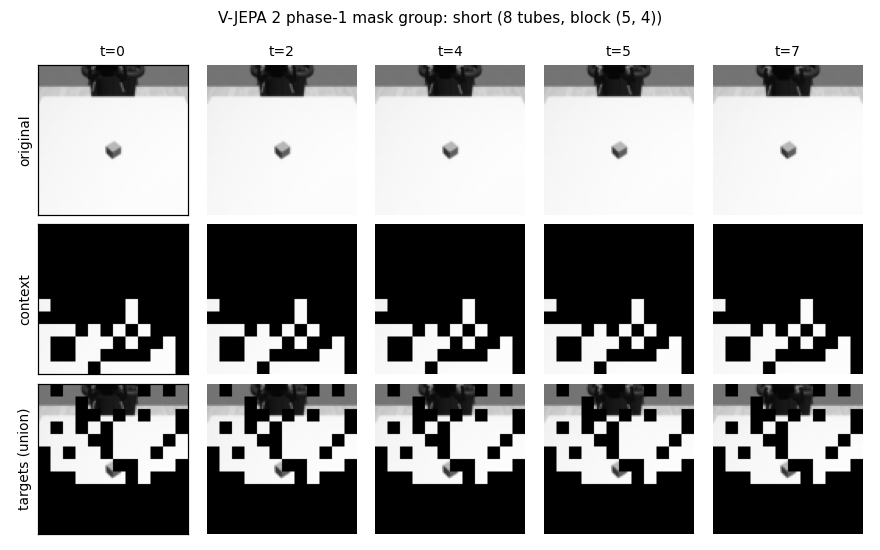
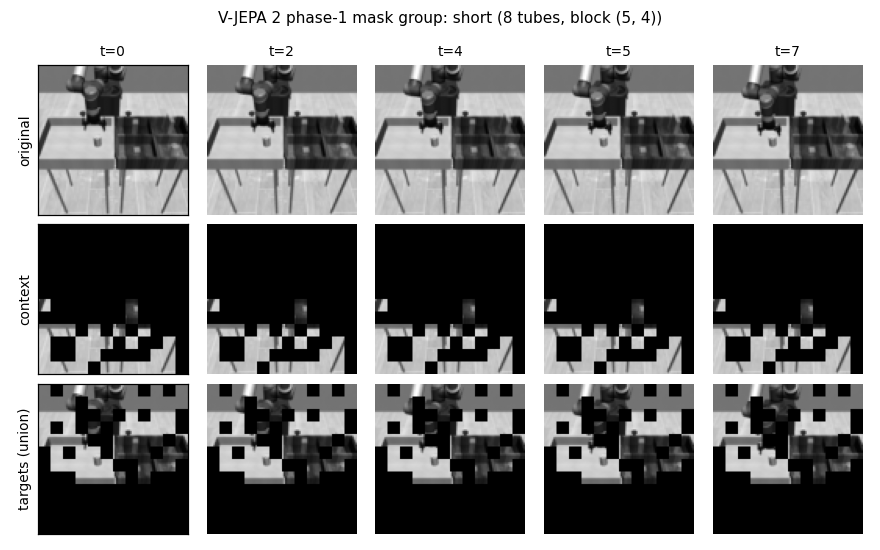
add djepa with contrastive distill

diff --git a/djepa_extras.py b/djepa_extras.py
@@ -2,11 +2,14 @@
 
 import os
 import random
+import numpy as np 
 
 import matplotlib.pyplot as plt
 import torch
 
-from djepa import cfg, sample_vjepa_masks, main as _main
+from djepa import cfg, visualize_tokens_pca, sample_vjepa_masks, main as _main
+from torch.utils.data import DataLoader
+from djepa import RobomimicVideos
 
 SAMPLES_DIR = "samples"
 
@@ -44,89 +47,32 @@ def save_phase1_masks(video, ctx_idx, pred_idx, label, encoder, path, n_frames_s
         axes[r, 0].axis("on"); axes[r, 0].set_xticks([]); axes[r, 0].set_yticks([])
     plt.tight_layout(); plt.savefig(path, dpi=110); plt.close()
 
-
[email redacted]_grad()
-def save_rollout_demo(encoder, ac, video, actions, states, path):
-    """actions/states: (B, T, 2) per-tubelet velocity and normalized position."""
-    B = video.size(0)
-    z = encoder(video).view(B, encoder.t_grid, encoder.s_grid ** 2, -1)
-    T = encoder.t_grid
-    rollout_actions = actions[:, 1:T]
-    rollout_states = states[:, :T - 1]
-    rolled = ac.rollout(z[:, 0], rollout_actions, rollout_states)
-    rolled_zero = ac.rollout(z[:, 0], torch.zeros_like(rollout_actions), rollout_states)
-    err_roll = [(rolled[:, t] - z[:, t + 1]).abs().mean().item() for t in range(T - 1)]
-    err_zero = [(rolled_zero[:, t] - z[:, t + 1]).abs().mean().item() for t in range(T - 1)]
-    plt.figure(figsize=(6, 3.5))
-    plt.plot(range(1, T), err_roll, marker="o", label="with action")
-    plt.plot(range(1, T), err_zero, marker="x", label="action=0")
-    plt.xlabel("rollout step"); plt.ylabel("L1 error vs true latent")
-    plt.title("V-JEPA 2-AC latent rollout error")
-    plt.legend(); plt.tight_layout()
-    plt.savefig(path, dpi=110); plt.close()
-
-
-def save_input_animation(video, action, path, t_patch=2):
-    """Animated gif of one clip with the per-tubelet action vector overlaid."""
-    import matplotlib.animation as animation
-    v = (video[0, 0].detach().cpu() + 0.5).clamp(0, 1)
-    T_frames, H, _ = v.shape
-    a = action.detach().cpu().numpy()                    # (t_latent, 2)
-    fig, ax = plt.subplots(figsize=(3.5, 3.5))
-    ax.set_xticks([]); ax.set_yticks([])
-    im = ax.imshow(v[0].numpy(), cmap="gray", vmin=0, vmax=1)
-    txt = ax.text(2, 5, "", color="lime", fontsize=9,
-                  bbox=dict(facecolor="black", alpha=0.6, pad=2))
-    arrow = ax.annotate("", xy=(H // 2, H // 2), xytext=(H // 2, H // 2),
-                        arrowprops=dict(arrowstyle="->", color="lime", lw=2))
-
-    def update(t):
-        t_lat = t // t_patch
-        ax_, ay_ = a[t_lat]
-        im.set_data(v[t].numpy())
-        txt.set_text(f"t={t}  a=({ax_:+.2f}, {ay_:+.2f})")
-        arrow.xy = (H // 2 + 18 * ax_, H // 2 + 18 * ay_)
-        arrow.set_position((H // 2, H // 2))
-        return im, txt, arrow
-
-    anim = animation.FuncAnimation(fig, update, frames=T_frames, interval=200, blit=False)
-    anim.save(path, writer="pillow", dpi=110)
-    plt.close()
-
-
-def save_loss_curves(losses, path, title):
-    plt.figure(figsize=(6, 3.5))
-    for k, v in losses.items():
-        plt.plot(v, label=k, alpha=0.85)
-    plt.xlabel("step"); plt.ylabel("L1 loss"); plt.title(title)
-    plt.legend(); plt.tight_layout()
-    plt.savefig(path, dpi=110); plt.close()
-
-
 def main(cfg):
     os.makedirs(SAMPLES_DIR, exist_ok=True)
 
     cfg.phase1_epochs = 1
+    cfg.episodes = 5
     cfg.use_wandb = False
     out = _main(cfg)
 
     # phase-1 mask snapshot
-    videos = next(iter(out["loader"]))
+    # videos, centers = next(iter(out["loader"]))
+    videos, flows = next(iter(out["loader"]))
+
+    # centers = centers.numpy()  # (B, T, 2)
     encoder = out["encoder"]
+    # groups = sample_vjepa_masks(videos.size(0), encoder.t_grid, encoder.s_grid,
+    #                              rng=random.Random(42), center_Bs=centers)
     groups = sample_vjepa_masks(videos.size(0), encoder.t_grid, encoder.s_grid,
-                                 rng=random.Random(42))
+                                 rng=random.Random(42), flows=flows)
     for g in groups:
         save_phase1_masks(videos[0:1], g["ctx"][0], g["pred"][0],
                           f"{g['label']} ({g['n_blocks']} tubes, block {g['block_hw']})",
                           encoder,
                           f"{SAMPLES_DIR}/djepa_phase1_masks_{g['label']}.png")
-
-    # AC rollout demo
-    videos = videos.to(out["device"])
-
     print(f"artifacts in ./{SAMPLES_DIR}/")
 
-
+   
 if __name__ == "__main__":
     cfg = cfg()
     main(cfg)